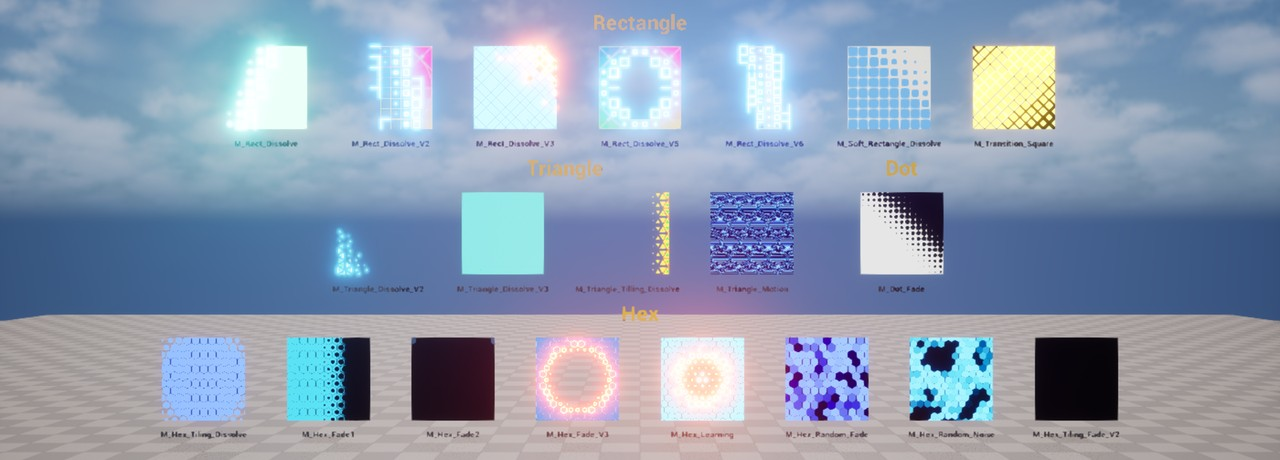
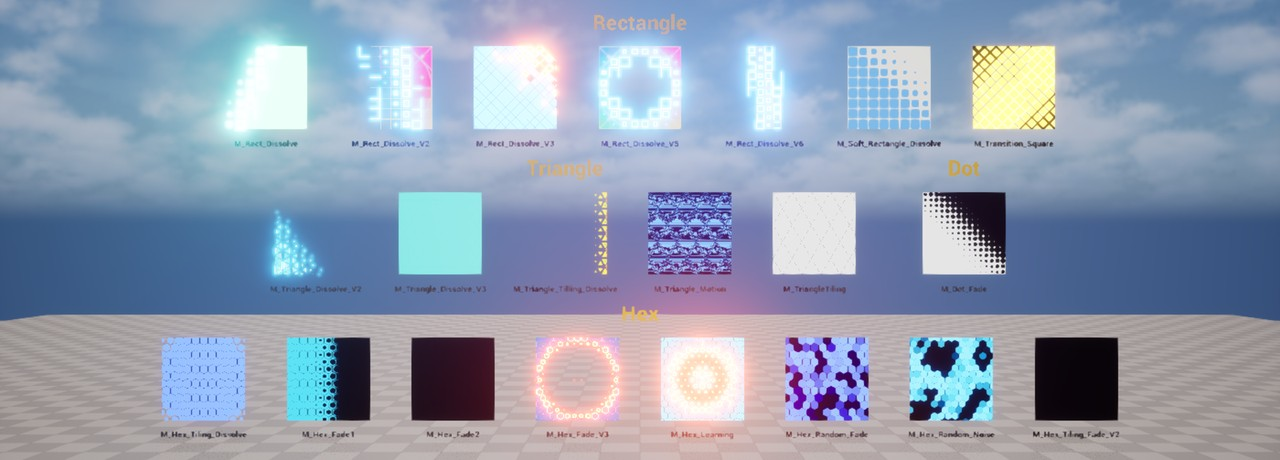
List the Hex showcase and the 21-material Dissolve showcase
Register Showcase_Hex in ListMaterials.py, regenerate the checklist and the
material catalog, and add the level to the READMEs. Showcase_Dissolve now
lists 21 materials; both README sections say that the still tiling grids
read as dots from the default camera. Both README pictures are frames
picked from eight shots.

diff --git a/Tools/ListMaterials.py b/Tools/ListMaterials.py
@@ -49,6 +49,7 @@ SHOWCASE_LEVELS = [
     ("Animation", CONTENT / "Levels/Showcase_Animation.umap", None),
     ("Transition", CONTENT / "Levels/Showcase_Transition.umap", None),
     ("Dissolve", CONTENT / "Levels/Showcase_Dissolve.umap", None),
+    ("Hex", CONTENT / "Levels/Showcase_Hex.umap", None),
     # 小道具として図形のマテリアルも置いているので、PostProcess ドメインのものだけ数える
     ("PostProcess", CONTENT / "Levels/Showcase_PostProcess.umap", "PostProcess"),
     # UI はウィジェットに並べて画面に重ねる。マテリアルを参照するのはレベルではなくウィジェット

diff --git a/ShowcaseCandidates.md b/ShowcaseCandidates.md
@@ -8,7 +8,8 @@ Content 以下の Material / PostProcess マテリアルの全一覧。ジャン
   - Seasons: 7 件(`Tools/BuildShowcaseSeasons.py`)
   - Animation: 20 件(`Tools/BuildShowcaseAnimation.py`)
   - Transition: 12 件(`Tools/BuildShowcaseTransition.py`)
-  - Dissolve: 20 件(`Tools/BuildShowcaseDissolve.py`)
+  - Dissolve: 21 件(`Tools/BuildShowcaseDissolve.py`)
+  - Hex: 8 件(`Tools/BuildShowcaseHex.py`)
   - PostProcess: 27 件(`Tools/BuildShowcasePostProcess.py`)
   - UI_LoadingIcon: 5 件(`Tools/BuildShowcaseUI_LoadingIcon.py`)
   - UI_Status: 4 件(`Tools/BuildShowcaseUI_Status.py`)
@@ -123,20 +124,20 @@ Content 以下の Material / PostProcess マテリアルの全一覧。ジャン
 
 | 採用 | 名前 | 種別 | ドメイン | 旧 | 追加 | 更新 | MI | 備考 |
 |:--:|---|:--:|:--:|:--:|---|---|:--:|---|
-|  | M_HexTiling | M | Surface | ✓ | 2025-07-11 | 2025-07-11 | 1 | MI: MI_HexTiling |
-|  | M_HexTiling_V3 | M | Surface | ✓ | 2023-08-13 | 2023-08-13 | 1 | MI: MI_HexTiling_V3 |
-|  | M_Hex_Animation | M | Surface | ✓ | 2023-08-13 | 2023-08-13 | 0 |  |
-|  | M_Hex_Animation_V3 | M | Surface | ✓ | 2023-08-13 | 2023-08-13 | 0 |  |
-|  | M_Hex_Animation_V4 | M | Surface | ✓ | 2023-08-13 | 2026-05-18 | 0 |  |
-|  | M_Hex_Animatoin_V2 | M | Surface | ✓ | 2023-08-13 | 2023-08-13 | 0 |  |
-|  | M_Hex_Dissolve | M | Surface | ✓ | 2025-07-11 | 2026-05-18 | 0 |  |
-|  | M_Hex_V2 | M | Surface | ✓ | 2023-08-13 | 2023-08-13 | 1 | MI: MI_Hex_V2 |
+| Hex | M_HexTiling | M | Surface | ✓ | 2025-07-11 | 2025-07-11 | 1 | MI: MI_HexTiling |
+| Hex | M_HexTiling_V3 | M | Surface | ✓ | 2023-08-13 | 2023-08-13 | 1 | MI: MI_HexTiling_V3 |
+| Hex | M_Hex_Animation | M | Surface | ✓ | 2023-08-13 | 2023-08-13 | 0 |  |
+| Hex | M_Hex_Animation_V3 | M | Surface | ✓ | 2023-08-13 | 2023-08-13 | 0 |  |
+| Hex | M_Hex_Animation_V4 | M | Surface | ✓ | 2023-08-13 | 2026-05-18 | 0 |  |
+| Hex | M_Hex_Animatoin_V2 | M | Surface | ✓ | 2023-08-13 | 2023-08-13 | 0 |  |
+| Hex | M_Hex_Dissolve | M | Surface | ✓ | 2025-07-11 | 2026-05-18 | 0 |  |
+| Hex | M_Hex_V2 | M | Surface | ✓ | 2023-08-13 | 2023-08-13 | 1 | MI: MI_Hex_V2 |
 
 ## Materials/Bonus
 
 | 採用 | 名前 | 種別 | ドメイン | 旧 | 追加 | 更新 | MI | 備考 |
 |:--:|---|:--:|:--:|:--:|---|---|:--:|---|
-|  | M_TriangleTiling | M | Surface |  | 2022-04-29 | 2026-01-05 | 1 | MI: MI_TriangleTiling |
+| Dissolve | M_TriangleTiling | M | Surface |  | 2022-04-29 | 2026-01-05 | 1 | MI: MI_TriangleTiling |
 
 ## Materials/Bonus/Other
 

diff --git a/README.ja.md b/README.ja.md
@@ -47,7 +47,8 @@
 | `Showcase_Seasons` | 春・秋・冬に分けた季節のモチーフ 7 件 |
 | `Showcase_Animation` | 時間で動くマテリアル 20 件(波形、放射状の効果、模様、トランジション、グリッチ) |
 | `Showcase_Transition` | 画面の切り替え 12 件(ワイプと歪み) |
-| `Showcase_Dissolve` | 四角・三角・ドット・六角形のマス目で消えるディゾルブとフェード 20 件 |
+| `Showcase_Dissolve` | 四角・三角・ドット・六角形のマス目で消えるディゾルブとフェード 21 件 |
+| `Showcase_Hex` | 六角形のマス目のマテリアル 8 件(格子、ディゾルブ、アニメーション) |
 | `Showcase_PostProcess` | ポストプロセス効果 27 件(1 件ずつブースに分けて展示) |
 | `Showcase_UI_LoadingIcon` | UI 用のローディングアイコン 5 件 |
 | `Showcase_UI_Status` | UI 用のレーダーチャート(マテリアル 3 件とインスタンス 1 件)とバッテリーゲージ |
@@ -76,9 +77,15 @@
 
 ### Showcase_Dissolve
 
-どれも時間でループするので、下の画像はある一瞬のものです。`M_Rect_Dissolve` から `M_Rect_Dissolve_V6` のような版違いは、見た目が違うものを並べて見比べられるようにしています。
+`M_TriangleTiling` 以外は時間でループするので、下の画像はある一瞬のものです。`M_Rect_Dissolve` から `M_Rect_Dissolve_V6` のような版違いは、見た目が違うものを並べて見比べられるようにしています。`M_TriangleTiling` は動かない三角の格子で、線が 1 px ほどと細いため、初期位置のカメラからは点に見えます。近づくと格子が見えます。
 
 ![Showcase_Dissolve](docs/images/Showcase_Dissolve.jpg)
+
+### Showcase_Hex
+
+`M_HexTiling` 以外は時間でループするので、下の画像はある一瞬のものです。`M_HexTiling` は `M_TriangleTiling` と同じく動かない格子で、線が細いため初期位置のカメラからは点に見えます。
+
+![Showcase_Hex](docs/images/Showcase_Hex.jpg)
 
 ### Showcase_PostProcess
 

diff --git a/README.md b/README.md
@@ -47,7 +47,8 @@ Open these levels from `Content/Levels` to see the materials side by side.
 | `Showcase_Seasons` | 7 seasonal motifs grouped into spring, autumn, and winter |
 | `Showcase_Animation` | 20 animated materials: waves, radial effects, patterns, transitions, and a glitch |
 | `Showcase_Transition` | 12 screen transitions: wipes and distortions |
-| `Showcase_Dissolve` | 20 dissolves and fades on rectangle, triangle, dot, and hex grids |
+| `Showcase_Dissolve` | 21 dissolves and fades on rectangle, triangle, dot, and hex grids |
+| `Showcase_Hex` | 8 hexagon grid materials: tilings, a dissolve, and animations |
 | `Showcase_PostProcess` | 27 post process effects, one per booth |
 | `Showcase_UI_LoadingIcon` | 5 UI loading icons |
 | `Showcase_UI_Status` | UI radar charts (3 materials and 1 instance) and a battery gauge |
@@ -76,9 +77,15 @@ Each transition loops between two images, so the image below is a single moment.
 
 ### Showcase_Dissolve
 
-Every material here loops over time, so the image below is a single moment. Versions such as `M_Rect_Dissolve` to `M_Rect_Dissolve_V6` are shown side by side when they look different.
+All but `M_TriangleTiling` loop over time, so the image below is a single moment. Versions such as `M_Rect_Dissolve` to `M_Rect_Dissolve_V6` are shown side by side when they look different. `M_TriangleTiling` draws a still triangle grid whose 1 px lines read as dots from the default camera; move closer to see the grid.
 
 ![Showcase_Dissolve](docs/images/Showcase_Dissolve.jpg)
+
+### Showcase_Hex
+
+All but `M_HexTiling` loop over time, so the image below is a single moment. Like `M_TriangleTiling`, `M_HexTiling` is a still grid with thin lines that read as dots from the default camera.
+
+![Showcase_Hex](docs/images/Showcase_Hex.jpg)
 
 ### Showcase_PostProcess
 

diff --git a/docs/MaterialCatalog.md b/docs/MaterialCatalog.md
@@ -88,14 +88,14 @@ How to read the tables:
 | M_Flare | Materials/Flare | Surface |  |  |
 | M_Flare_V2 | Materials/Flare | Surface |  |  |
 | M_Glitch | Materials/Animation | Surface | Animation |  |
-| M_Hex_Animation | Materials/Hex | Surface |  |  |
-| M_Hex_Animation_V3 | Materials/Hex | Surface |  |  |
-| M_Hex_Animation_V4 | Materials/Hex | Surface |  |  |
-| M_Hex_Animatoin_V2 | Materials/Hex | Surface |  |  |
-| M_Hex_Dissolve | Materials/Hex | Surface |  |  |
-| M_Hex_V2 | Materials/Hex | Surface |  | 1 |
-| M_HexTiling | Materials/Hex | Surface |  | 1 |
-| M_HexTiling_V3 | Materials/Hex | Surface |  | 1 |
+| M_Hex_Animation | Materials/Hex | Surface | Hex |  |
+| M_Hex_Animation_V3 | Materials/Hex | Surface | Hex |  |
+| M_Hex_Animation_V4 | Materials/Hex | Surface | Hex |  |
+| M_Hex_Animatoin_V2 | Materials/Hex | Surface | Hex |  |
+| M_Hex_Dissolve | Materials/Hex | Surface | Hex |  |
+| M_Hex_V2 | Materials/Hex | Surface | Hex | 1 |
+| M_HexTiling | Materials/Hex | Surface | Hex | 1 |
+| M_HexTiling_V3 | Materials/Hex | Surface | Hex | 1 |
 | M_Pulse | Materials/Animation | Surface | Animation |  |
 | M_Pulse_Animation | Materials/Animation | Surface | Animation |  |
 | M_Rainbow_Sample | Materials/Animation | Surface | Animation |  |
@@ -149,7 +149,7 @@ How to read the tables:
 | M_Triangle_Dissolve_V3 | Materials/Bonus/Dissolve | Surface | Dissolve |  |
 | M_Triangle_Motion | Materials/Bonus/Other | Surface | Dissolve |  |
 | M_Triangle_Tilling_Dissolve | Materials/Bonus/Dissolve | Surface | Dissolve | 1 |
-| M_TriangleTiling | Materials/Bonus | Surface |  | 1 |
+| M_TriangleTiling | Materials/Bonus | Surface | Dissolve | 1 |
 
 ## Transitions
 
